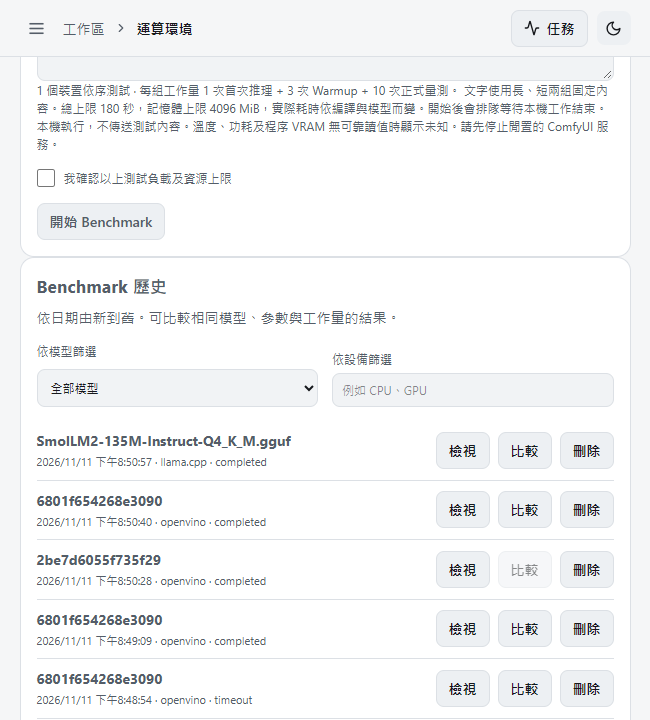
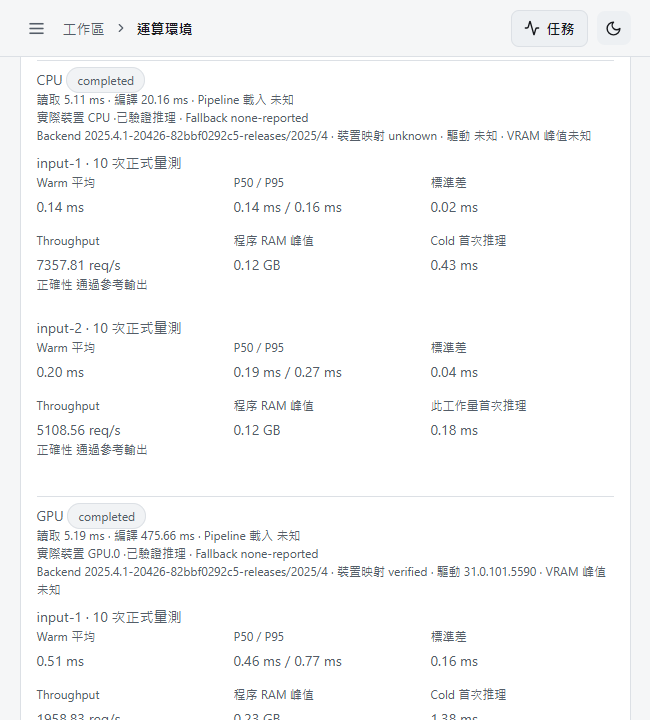
docs(benchmark): record Windows installer verification and final screenshots

diff --git a/docs/TEST_REPORT.md b/docs/TEST_REPORT.md
@@ -18,7 +18,11 @@
 | NEEDS REMOTE HOST | 遠端 Benchmark 契約目前 unsupported，實體雙機未測。 |
 | NOT RUN | 正式 Release、簽章、防毒申訴與付費雲端。本次只產出開發分支安裝包。 |
 
-Windows CI 與安裝包 SHA-256 將在本輪工作流程完成後補上對應提交，避免將舊版安裝包當成本輪成果。
+**Windows CI PASS**，[工作流程 43025479340](https://github.com/liu11-21/local-llm/actions/runs/43025479340) 對應應用程式提交 `79e5415ff1db2028934ccd84dc848de39ed715b4`。131 項測試先通過 130 項，僅尚未建置的 PackagedWorker 略過；建置後該項另外通過。本機略過的 TLS 案例均在乾淨 runner 執行。Worker 封裝、完整 Chromium 回歸、Tauri Windows x64 安裝包、安裝／啟動／卸載 Smoke 均通過。
+
[1 lines of base64/hex data omitted]
+
+已下載核對 GitHub Artifact Digest、BUILD.json 的提交／版本／EXE 雜湊與 SHA256SUMS.txt。證據見 [BUILD](evidence/benchmark/windows-build.json) 與 [下載驗證](evidence/benchmark/windows-verification.json)。本輪最後的文件／截圖提交不改變安裝包程式碼，安裝包來源以此處固定 SHA 為準。
 
 ## E3-A、E3-B 的資源與 OpenVINO Adapter
 

diff --git a/docs/HARDWARE_BENCHMARK.md b/docs/HARDWARE_BENCHMARK.md
@@ -62,3 +62,14 @@ E3-D 的 Benchmark 新鮮度、設備推薦與異質並行調度另見 [DEVICE_R
 完整 Cold 讀取／編譯／首次推理、TTFT、原生 Decode／Prefill、精確 Token 數、RAM 峰值與算子資訊均保存於同目錄的 JSON。llama.cpp 實際版本為 0.7.0-dev build 11810，commit e3797b184，本次正確執行檔可運作，先前其他路徑的應用程式控管阻擋不能代替這次的結果。
 
 安全驗收 PASS，取消後保留 1 筆、15 秒逾時後保留 6 筆原始量測，兩次子程序都已清理，之後重新執行測試成功。NEEDS NPU，NEEDS REMOTE HOST，其他廠牌 GPU 與跨硬體驗收 NOT RUN。這台 Iris Xe 的 GPU 身分以 LUID 對應成功，FP32 IR 的 EXECUTION_DEVICES 為 GPU.0。
+
+| 文字模型 | 裝置 | 工作量 | 原生 TTFT 平均 ms | Decode 平均 token/s |
+|---|---|---|---|---|
+| Qwen OV | CPU | short | 22.047 | 73.980 |
+| Qwen OV | CPU | long | 30.415 | 76.120 |
+| SmolLM2 GGUF | CPU | short | 不可取得 | 209.932 |
+| SmolLM2 GGUF | CPU | long | 不可取得 | 191.255 |
+| SmolLM2 GGUF | Vulkan0 | short | 不可取得 | 126.146 |
+| SmolLM2 GGUF | Vulkan0 | long | 不可取得 | 124.429 |
+
+每次生成均為 32 Token。首段文字 Callback 時間另外保存，沒有替代原生 TTFT。整體生成時間包含 Prefill，不能只看 Decode 速率判斷整個請求耗時。Windows 開發安裝包與 CI 來源核對見 [測試報告](TEST_REPORT.md)。
